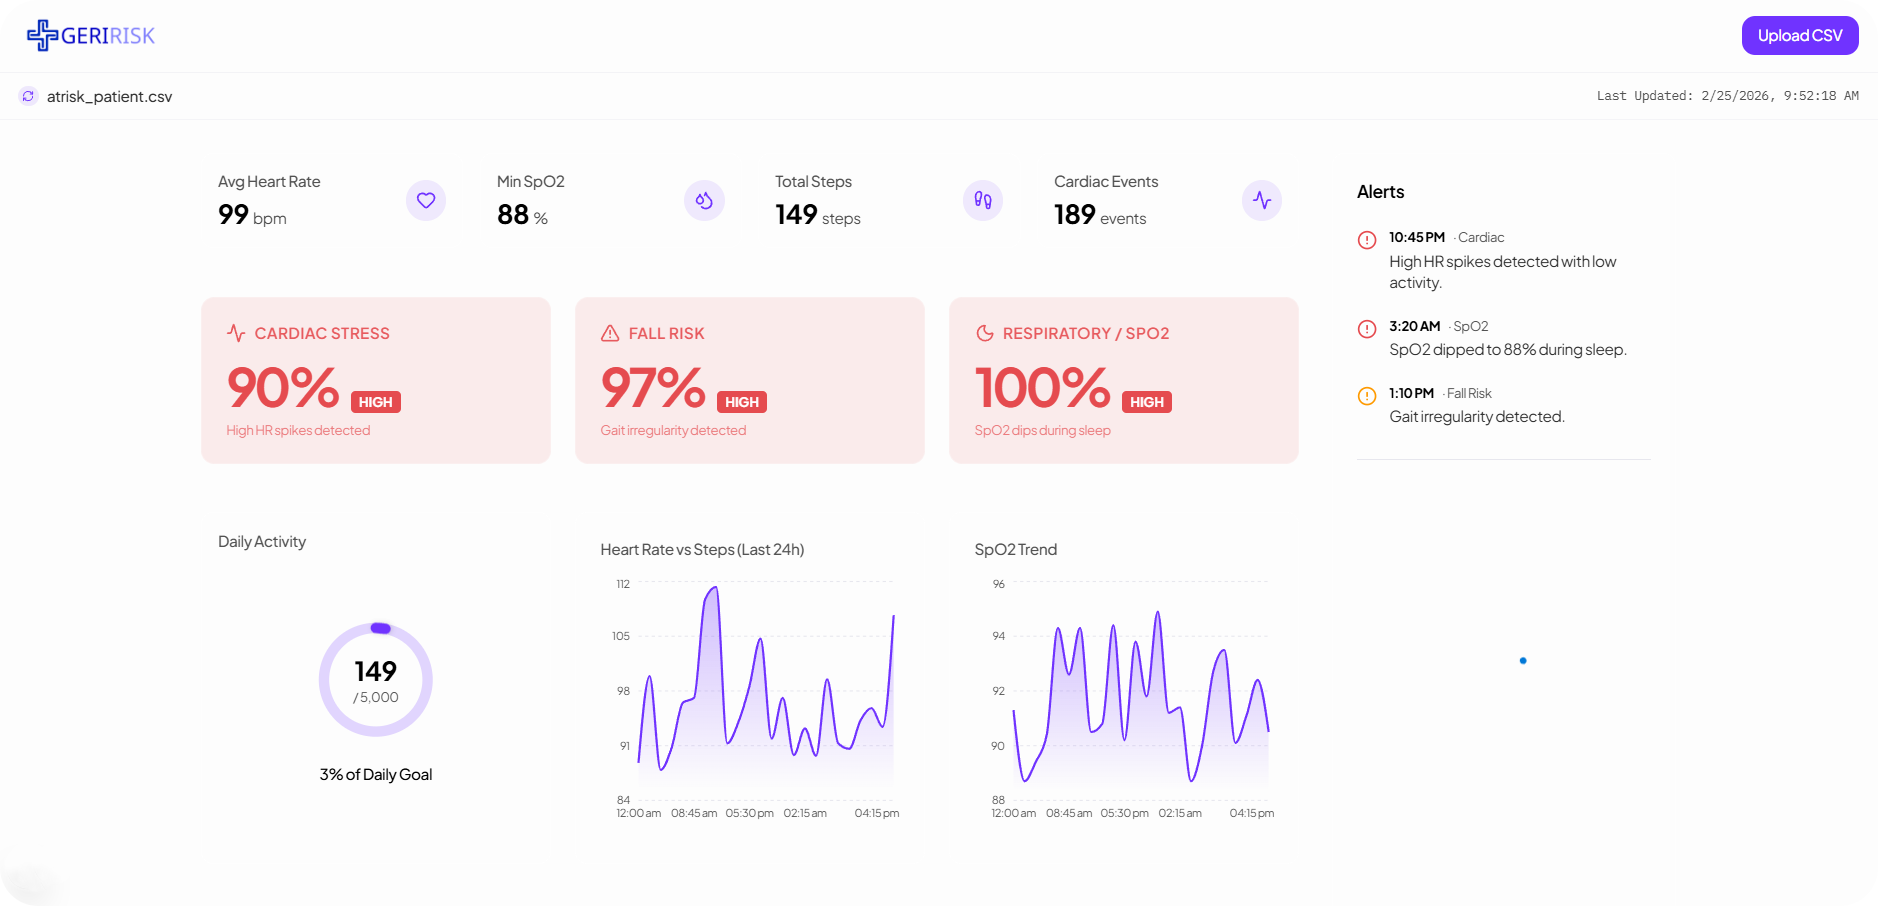
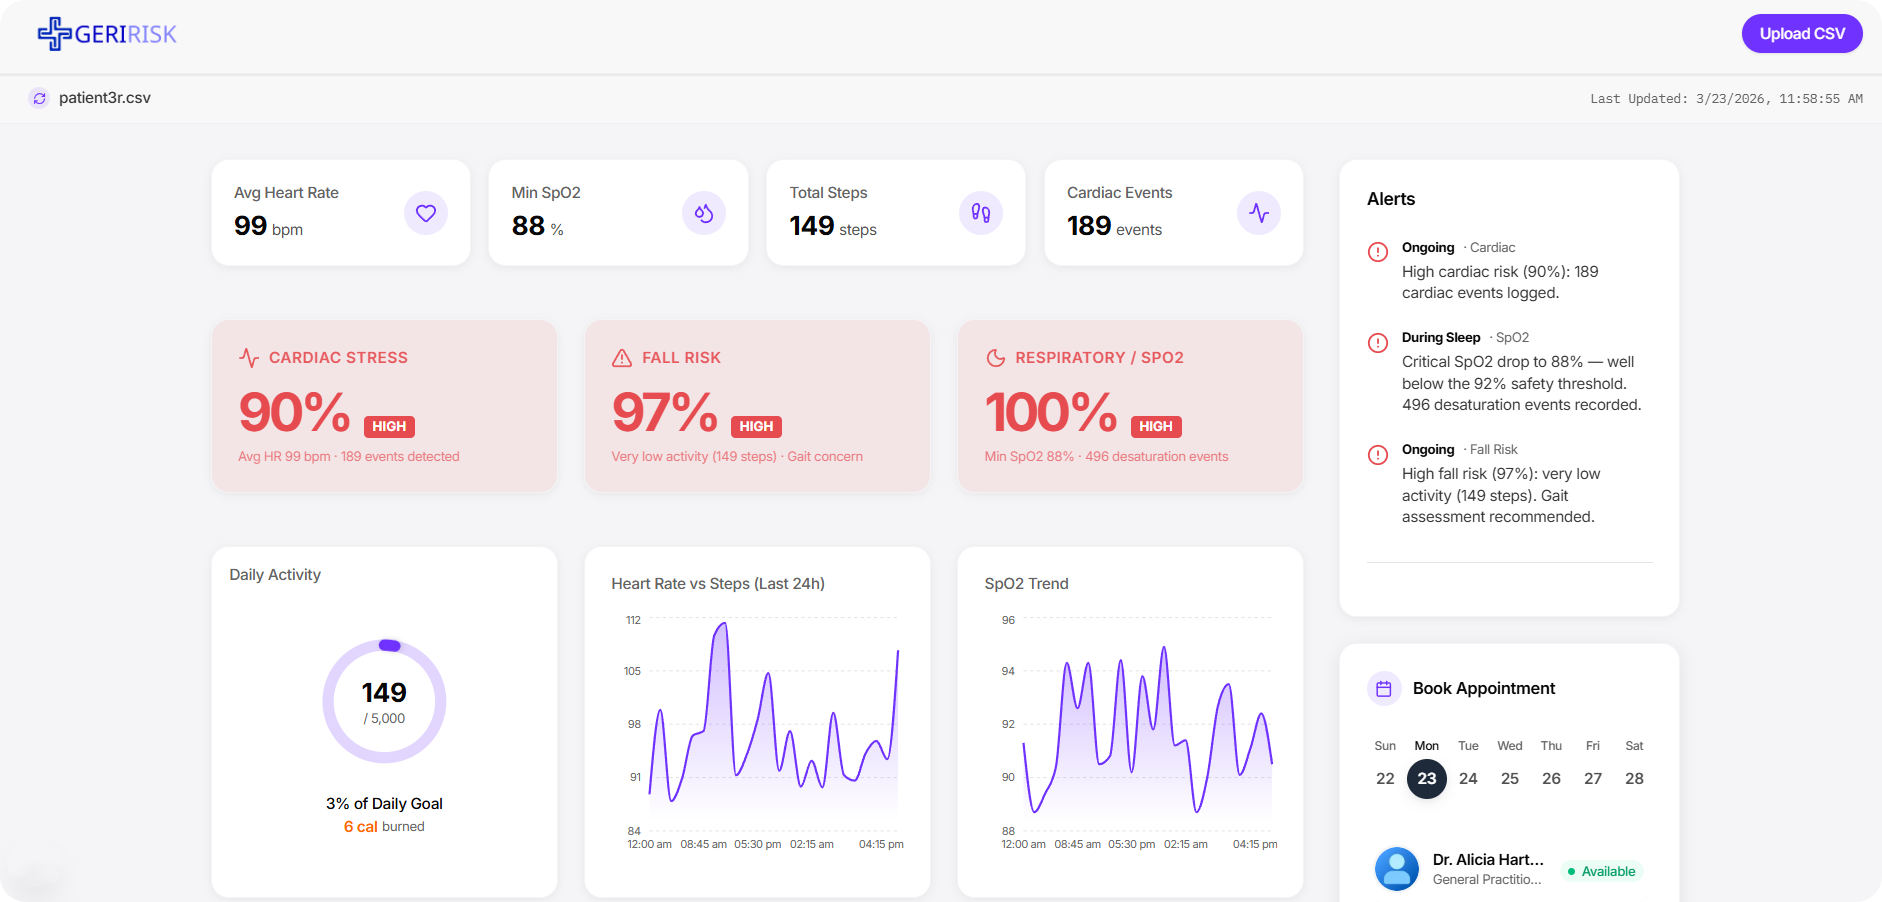
chore: Img Changes

diff --git a/geririsk-ai/src/app/page.tsx b/geririsk-ai/src/app/page.tsx
@@ -374,8 +374,9 @@ export default function Home() {
               <Image
                 src="/Dashboard M.png"
                 alt="GeriRisk Dashboard"
-                width={800}
-                height={450}
+                width={1920}
+                height={1080}
+                unoptimized
                 className="w-full h-auto"
               />
             </motion.div>
@@ -459,8 +460,9 @@ export default function Home() {
             <Image
               src="/Dashboard M.png"
               alt="GeriRisk Dashboard Full View"
-              width={1200}
-              height={680}
+              width={1920}
+              height={1080}
+              unoptimized
               className="w-full h-auto"
             />
           </motion.div>
@@ -534,8 +536,9 @@ export default function Home() {
               <Image
                 src="/Dashboard M.png"
                 alt="GeriRisk Dashboard Benefits"
-                width={800}
-                height={450}
+                width={1920}
+                height={1080}
+                unoptimized
                 className="w-full h-auto"
               />
             </motion.div>
